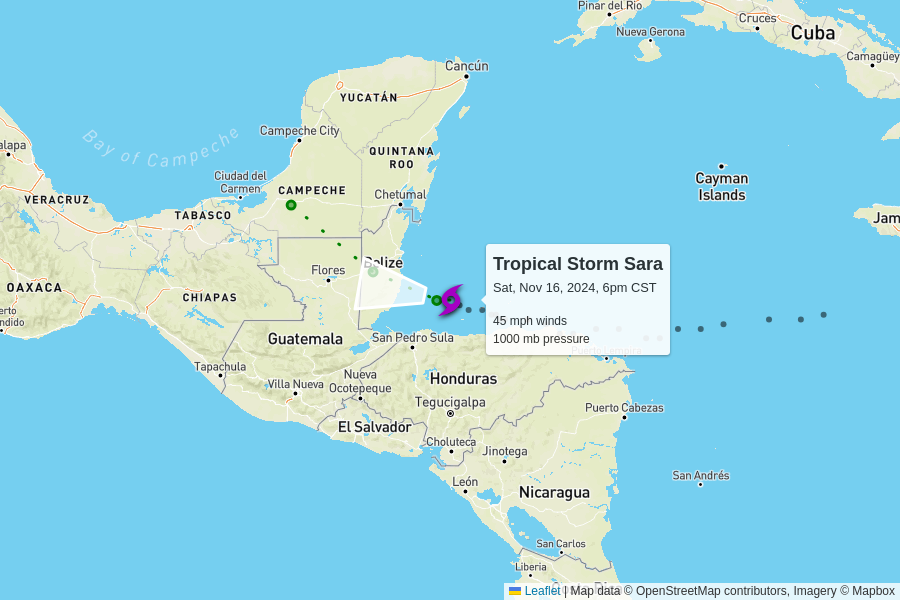
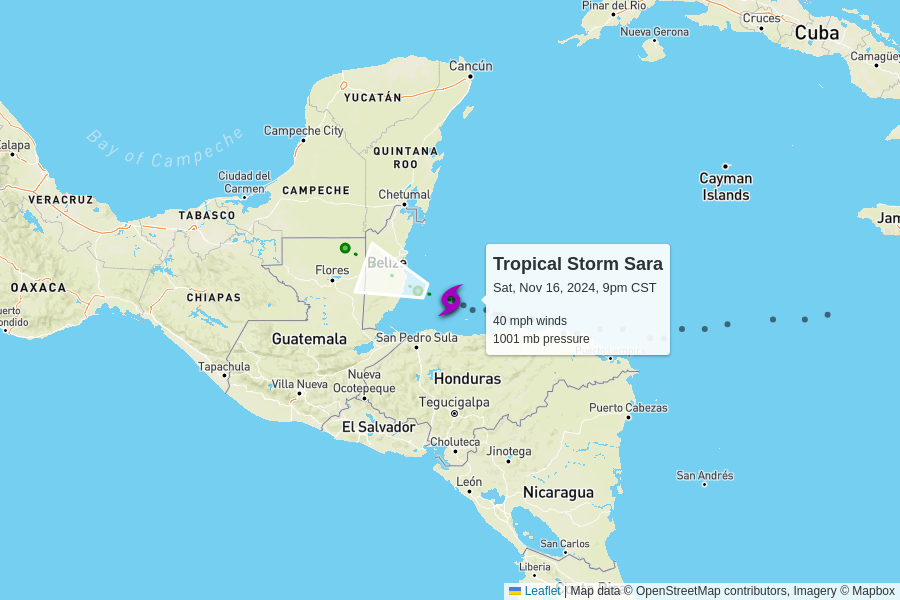
automatic update

diff --git a/docs/index.html b/docs/index.html
@@ -102,7 +102,7 @@
         <td colspan="6" class="storm category-0" >
           <h2>
             Tropical Storm Sara
-            <p class="updated">last updated <span data-time>2024-11-17T00:00:00.000Z</span></p>
+            <p class="updated">last updated <span data-time>2024-11-17T03:00:00.000Z</span></p>
           </h2>
         </td>
       </tr>
@@ -117,12 +117,12 @@
       </tr>
       <tr>
         <td class="spacer"></td>
-        <td>45 mph<br>0 mph since last update</td>
-        <td>1000 mb<br>0 mb since last update</td>
+        <td>40 mph<br>-5 mph since last update</td>
+        <td>1001 mb<br>+1 mb since last update</td>
         <td>
-          5 mph to the west
+          5 mph to the west-northwest
           <br/>
-          <span style="display: inline-block; font-size: 1.5em; transform: rotate(280deg);">↑</span>
+          <span style="display: inline-block; font-size: 1.5em; transform: rotate(290deg);">↑</span>
         </td>
         <td><a href="https://raw.githubusercontent.com/mgwalker/atlantic-hurricanes/main/data/csv/AL192024.csv">AL192024.csv</a></td>
         <td><a href="https://www.nhc.noaa.gov/archive/2024/SARA.shtml?">NHC advisories</a></td>
